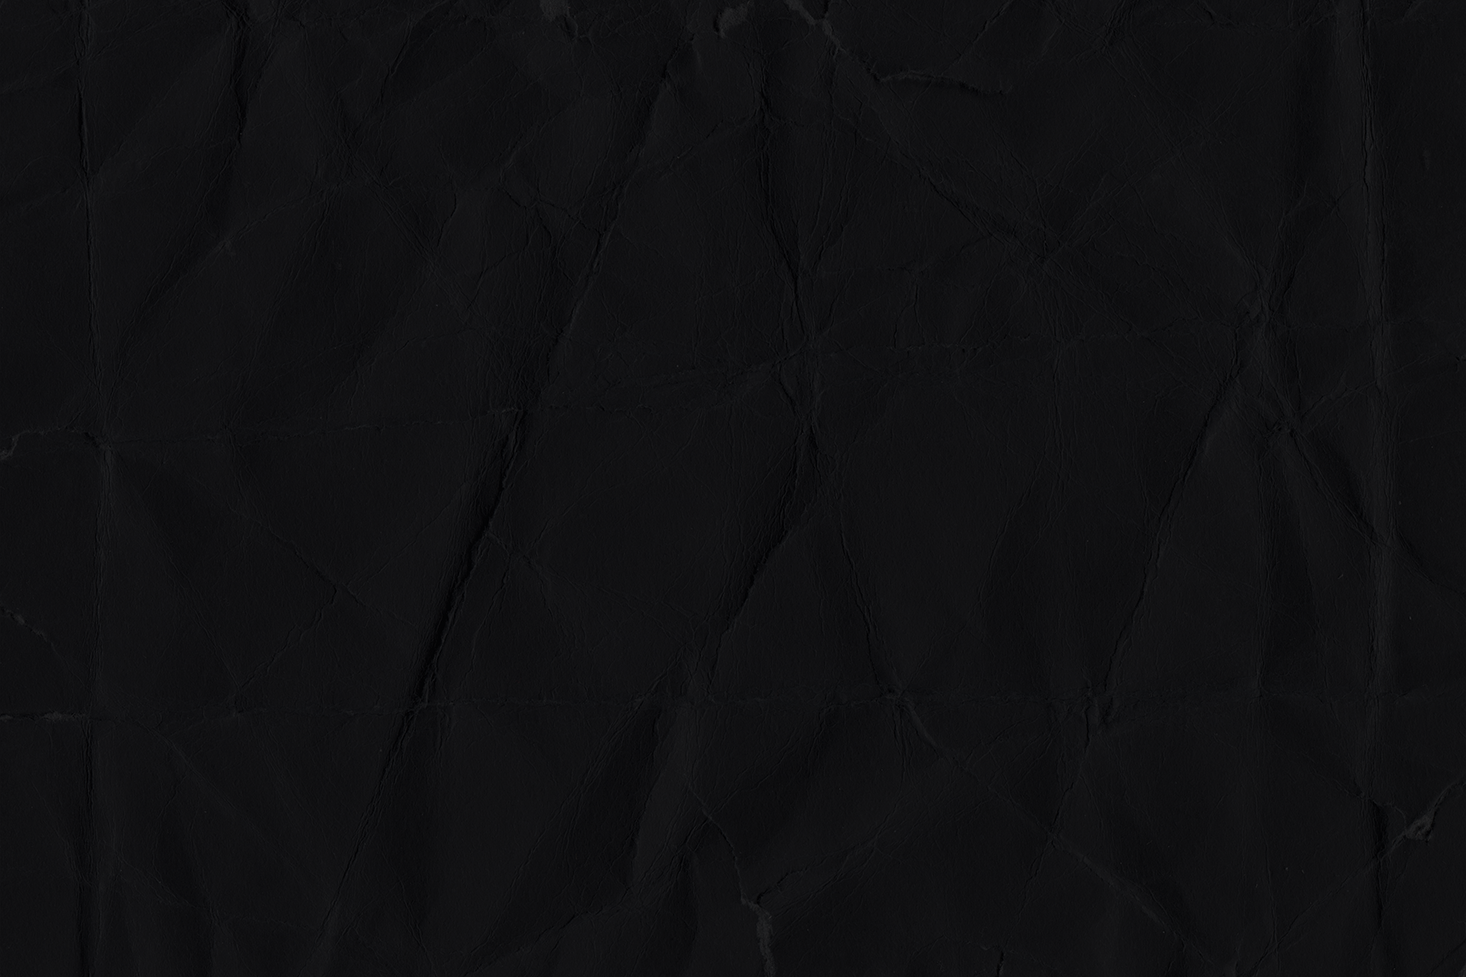
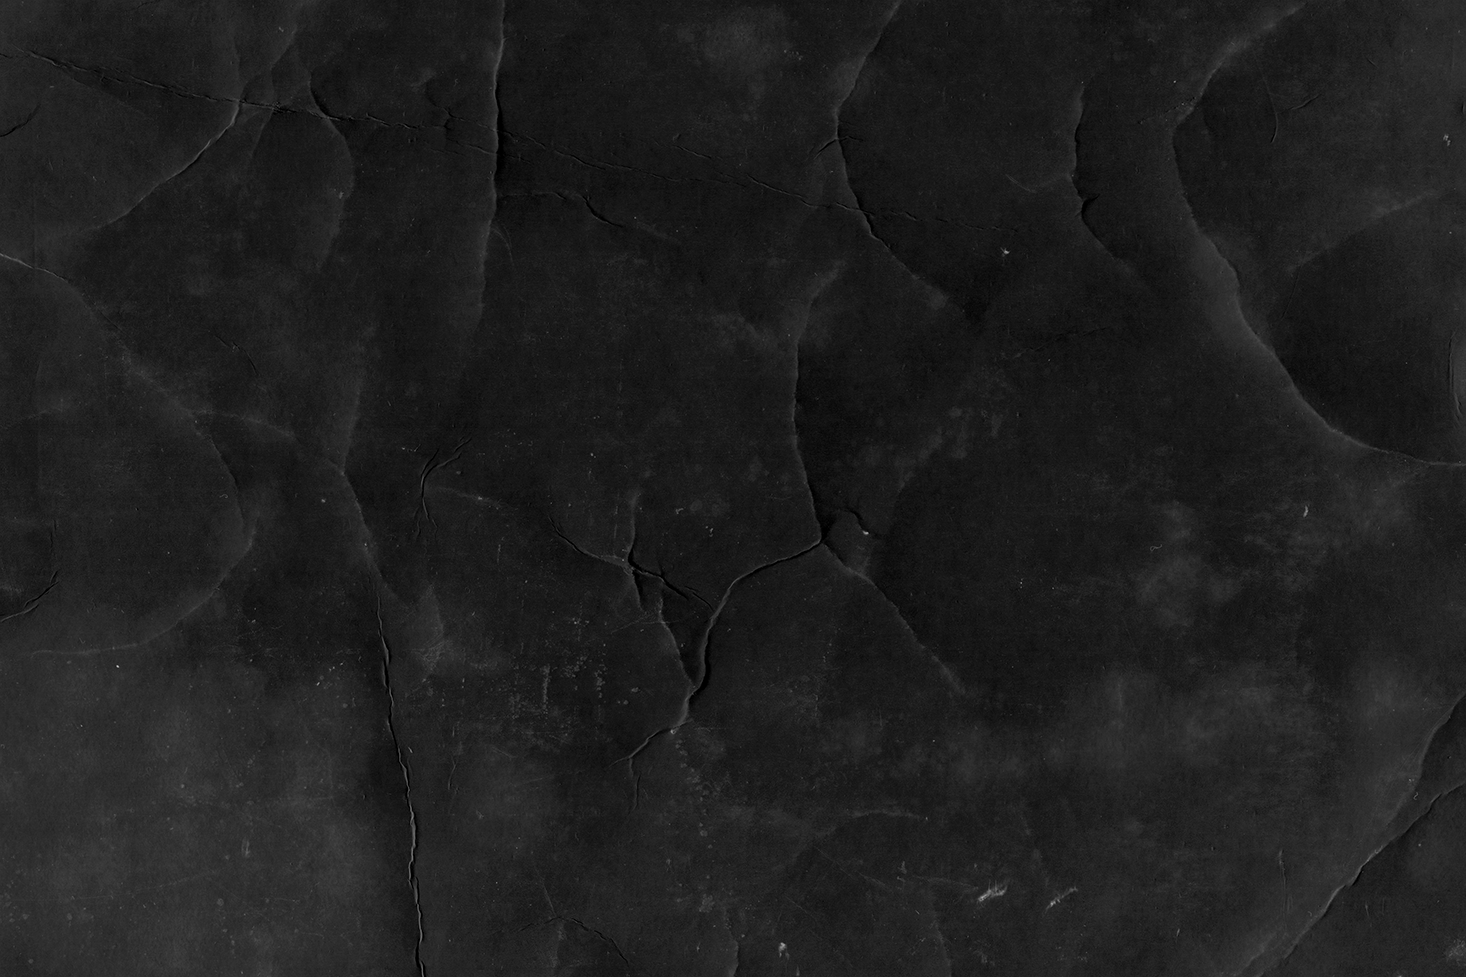
changed buttons in details view

diff --git a/src/components/MovieDetails/MovieDetails.jsx b/src/components/MovieDetails/MovieDetails.jsx
@@ -5,9 +5,10 @@ import {useHistory} from 'react-router-dom';
 
 import Card from '@mui/material/Card';
 import CardMedia from '@mui/material/CardMedia';
-import Button from '@mui/material/Button';
 import ButtonGroup from '@mui/material/ButtonGroup';
-
+import ChevronRightIcon from '@mui/icons-material/ChevronRight';
+import ChevronLeftIcon from '@mui/icons-material/ChevronLeft';
+import IconButton from '@mui/material/IconButton';
 
 
 
@@ -45,26 +46,6 @@ function MovieDetails(){
 
     return(
         <>
-        {first && 
-            <ButtonGroup variant="text">
-                <Button onClick={homePage}>Home</Button>
-                <Button onClick={nextPage}>Next</Button>
-            </ButtonGroup> 
-        }
-        {middle && 
-            <ButtonGroup variant="text">
-                <Button onClick={prevPage}>Previous</Button>
-                <Button onClick={homePage}>Home</Button>
-                <Button onClick={nextPage}>Next</Button>
-            </ButtonGroup> 
-        }
-        {last && 
-            <ButtonGroup variant="text">
-                <Button onClick={prevPage}>Previous</Button>
-                <Button onClick={homePage}>Home</Button>
-            </ButtonGroup>         
-        }
-
         <section className="flex-container-2">
             <Card sx={{ 
                 maxWidth: 400, 
@@ -103,7 +84,7 @@ function MovieDetails(){
                             minHeight: 600 
                         }}
                     /> 
-                        <div 
+                        <div className='detailsTitle'
                             style={{
                                 position: 'absolute', 
                                 color: 'white', 
@@ -114,21 +95,22 @@ function MovieDetails(){
                         >
                             {movies[id].title}
                         </div>
-                        <div 
+                        <div className='detailsGenres'
                             style={{
                                 position: 'absolute', 
                                 color: 'white', 
-                                top: 75, 
+                                top: 110, 
                                 left: '50%', 
-                                transform: 'translateX(-50%)'
+                                transform: 'translateX(-50%)',
                             }} 
                         >
-                            {movies[id].genres}</div>
-                            <div 
+                            {movies[id].genres}
+                        </div>
+                        <div className='detailsDesc'
                             style={{
                                 position: 'absolute', 
                                 color: 'white', 
-                                top:125, 
+                                top:140, 
                                 left: '50%', 
                                 transform: 'translateX(-50%)'
                             }} 
@@ -137,33 +119,29 @@ function MovieDetails(){
                         </div>
                 </div>
                 </Card>
-            </section>    
+            </section>  
+                    {first && 
+            <ButtonGroup variant="text">
+                <IconButton onClick={homePage}>Home</IconButton>
+                <IconButton onClick={nextPage}><ChevronRightIcon/></IconButton>
+            </ButtonGroup> 
+        }
+        {middle && 
+            <ButtonGroup variant="text">
+                <IconButton onClick={prevPage}><ChevronLeftIcon/></IconButton>
+                <IconButton onClick={homePage}>Home</IconButton>
+                <IconButton onClick={nextPage}><ChevronRightIcon/></IconButton>
+            </ButtonGroup> 
+        }
+        {last && 
+            <ButtonGroup variant="text">
+                <IconButton onClick={prevPage}><ChevronLeftIcon/></IconButton>
+                <IconButton onClick={homePage}>Home</IconButton>
+            </ButtonGroup>         
+        }  
         </>    
     )
 };
 
 export default MovieDetails
 
-{/* <Typography 
-                    variant="h4"
-                    align='left'
-                    className='titleText'
-                >
-                {movies[id].title}
-                </Typography>
-
-                <Typography 
-                    variant="h6"
-                    align='left'
-                    className='genreText'
-                >
-                {movies[id].genres}
-                </Typography>
-
-                <Typography 
-                    variant="body1"
-                    align='left'
-                    className='descText'
-                >
-                {movies[id].description}
-                </Typography> */}

diff --git a/src/components/App/App.css b/src/components/App/App.css
@@ -1,23 +1,31 @@
 html {
-  background-color: rgb(220, 220, 220);
+  background-Image: url('../../../public/images/blackbg.png'); 
 }
 
 .App {
   text-align: center;
   font-family: Arial, Helvetica, sans-serif;
+  align-items: center;
 }
 
-.App-title {
-  font-size: 1.5em;
-}
+.AppHeader {
+  margin-top: 20px;
+  font-size: 24px;
+  padding: 5px;
+  background-Image: url('../../../public/images/headerbg.png'); 
+  text-align: center;
+  background-repeat: no-repeat;
+  background-position: center;
+  background-size: contain;
+  font-family: 'Permanent Marker'}
 
 .flex-container {
   display: flex;
   flex-direction: row;
   flex-wrap: wrap;
-  justify-content: center;
+  justify-content: space-around;
   gap: 20px;
-  margin: 20px;
+  margin: 50px;
 }
 
 .flex-container-2 {
@@ -26,4 +34,16 @@ html {
   justify-content: center;
   gap: 20px;
   margin: 20px;
+}
+
+.detailsTitle {
+  font-size: 28px;
+}
+
+.detailsGenres {
+  font-size: 20px;
+}
+
+.detailsDesc {
+  font-size: 16px;
 }

diff --git a/public/index.html b/public/index.html
@@ -4,6 +4,10 @@
     <meta charset="utf-8">
     <meta name="viewport" content="width=device-width, initial-scale=1, shrink-to-fit=no">
     <meta name="theme-color" content="#000000">
+    <!-- Google Font import -->
+    <link rel="preconnect" href="https://fonts.googleapis.com">
+    <link rel="preconnect" href="https://fonts.gstatic.com" crossorigin>
+    <link href="https://fonts.googleapis.com/css2?family=Permanent+Marker&display=swap" rel="stylesheet">
     <!--
       manifest.json provides metadata used when your web app is added to the
       homescreen on Android. See https://developers.google.com/web/fundamentals/engage-and-retain/web-app-manifest/
@@ -19,7 +23,7 @@
       work correctly both with client-side routing and a non-root public URL.
       Learn how to configure a non-root public URL by running `npm run build`.
     -->
-    <title>React App</title>
+    <title>Redux Gallery</title>
   </head>
   <body>
     <noscript>

diff --git a/src/components/App/App.js b/src/components/App/App.js
@@ -8,10 +8,10 @@ import MovieForm from '../MovieForm/MovieForm'
 
 function App() {
   return (
-    <div className="App">
-        <h1>Redux-Sagas</h1>
-        <h1> -or- </h1>
-        <h1>Cinematic Sagas</h1>
+  <div className="App">
+      <div className="AppHeader">
+        <h1>Sagas</h1>
+      </div>
 
       <Router>        
         <Route path="/" exact>
